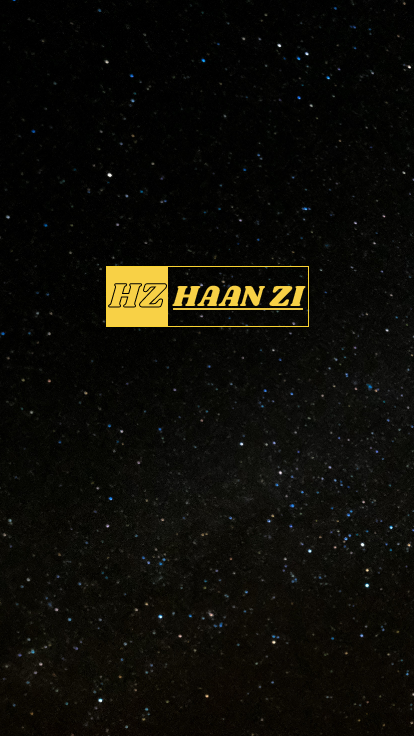
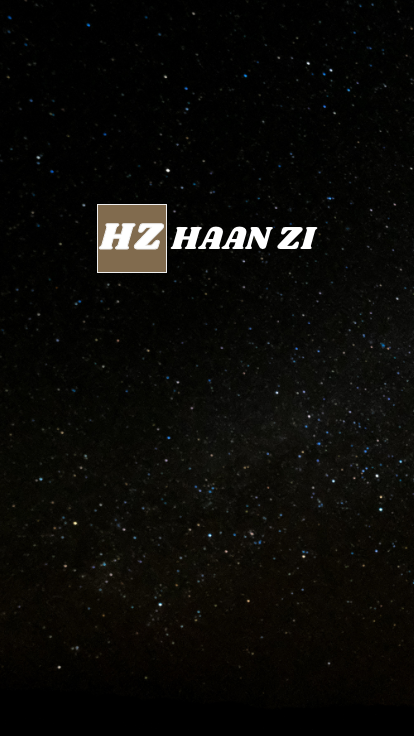
@commit-Dec-24-01

diff --git a/lib/screens/profile.dart b/lib/screens/profile.dart
@@ -1,6 +1,7 @@
 import 'package:haanzi_main/models/user.dart';
 import 'package:haanzi_main/services/auth.dart';
 import 'package:flutter/material.dart';
+import 'package:haanzi_main/services/database.dart';
 import 'package:image_picker/image_picker.dart';
 import 'package:firebase_storage/firebase_storage.dart';
 import 'dart:io';
@@ -52,6 +53,7 @@ class _ProfileScreenState extends State<Profile>
     return Scaffold(
       appBar: AppBar(
         title: Text('Set Profile'),
+        centerTitle: true,
       ),
 
       // resizeToAvoidBottomInset: false,
@@ -185,7 +187,16 @@ class _ProfileCardState extends State<ProfileCard> {
 
     _uploadTask = _storage.ref().child(filepath).putFile(_image);
 
-    print(_storage.ref().child(filepath).getDownloadURL());
+    var _imageURL = await _storage.ref().child(filepath).getDownloadURL();
+    _authData['pic'] = _imageURL;
+
+    await DatabaseService(uid: uid).updateUserProfile(
+        uid,
+        _authData['pic'],
+        _authData['name'],
+        _authData['mobile'],
+        _authData['address'],
+        _authData['pin']);
   }
 
   Future<void> getImage() async {
@@ -243,8 +254,8 @@ class _ProfileCardState extends State<ProfileCard> {
     return Card(
       child: Container(
         color: Colors.white,
-        margin: EdgeInsets.all(12.0),
-        padding: EdgeInsets.all(12.0),
+        margin: EdgeInsets.all(18.0),
+        padding: EdgeInsets.all(18.0),
         child: Form(
           key: _formKey,
           child: SingleChildScrollView(
@@ -313,7 +324,7 @@ class _ProfileCardState extends State<ProfileCard> {
                 TextFormField(
                   decoration: InputDecoration(labelText: 'Name'),
                   validator: (value) {
-                    if (value.isEmpty || value.length < 10) {
+                    if (value.isEmpty || value.length < 5) {
                       return 'Invalid Name!';
                     }
                     return null;
@@ -326,7 +337,7 @@ class _ProfileCardState extends State<ProfileCard> {
                   decoration: InputDecoration(labelText: 'Mobile'),
                   //controller: _passwordController,
                   validator: (value) {
-                    if (value.isEmpty || value.length < 10) {
+                    if (value.isEmpty || value.length != 10) {
                       return 'Mobile Number!';
                     }
                     return null;
@@ -343,7 +354,7 @@ class _ProfileCardState extends State<ProfileCard> {
                   //controller: _passwordController,
                   validator: (value) {
                     if (value.isEmpty || value.length < 15) {
-                      return 'Adress is too short Number!';
+                      return 'Adress is too short!';
                     }
                     return null;
                   },
@@ -359,7 +370,7 @@ class _ProfileCardState extends State<ProfileCard> {
                     decoration: InputDecoration(labelText: 'Pin Code'),
                     //controller: _passwordController,
                     validator: (value) {
-                      if (value.isEmpty || value.length < 15) {
+                      if (value.isEmpty || value.length < 7) {
                         return 'Pin is too short Number!';
                       }
                       return null;
@@ -386,15 +397,23 @@ class _ProfileCardState extends State<ProfileCard> {
                             padding: EdgeInsets.only(right: 10.0),
                             child: Container(
                                 child: new RaisedButton(
-                              child: new Text("Save"),
-                              textColor: Colors.white,
-                              color: Colors.green,
+                              child: Text(
+                                'SAVE',
+                                style: TextStyle(
+                                    fontWeight: FontWeight.bold,
+                                    fontFamily: 'Roboto',
+                                    color: Theme.of(context).backgroundColor),
+                              ),
+
+                              //color:  color: Theme.of(context).backgroundColor),
                               onPressed: () {
                                 _submit();
                               },
+
                               shape: new RoundedRectangleBorder(
                                   borderRadius:
                                       new BorderRadius.circular(20.0)),
+                              color: Theme.of(context).buttonColor,
                             )),
                           ),
                           flex: 2,
@@ -404,9 +423,9 @@ class _ProfileCardState extends State<ProfileCard> {
                             padding: EdgeInsets.only(right: 10.0),
                             child: Container(
                                 child: new RaisedButton(
-                              child: new Text("Cancel"),
+                              child: new Text("CANCEL"),
                               textColor: Colors.white,
-                              color: Colors.red,
+                              color: Color(0xff99463c),
                               onPressed: () {
                                 _signout();
                               },

diff --git a/lib/screens/authScreen.dart b/lib/screens/authScreen.dart
@@ -20,7 +20,7 @@ class AuthScreen extends StatelessWidget {
 //            decoration: BoxDecoration(
 //              image: DecorationImage(
 //                image: AssetImage('images/home-auth.png'),
-//                fit: BoxFit.cover,
+//                fit: BoxFit.cover,home-auth.png
 //              ),
 //            ),
 //          ),
@@ -40,7 +40,7 @@ class AuthScreen extends StatelessWidget {
                 crossAxisAlignment: CrossAxisAlignment.center,
                 children: <Widget>[
                   SizedBox(
-                    height: deviceSize.height * 0.20,
+                    height: deviceSize.height * 0.10,
                   ),
                   Flexible(
                     flex: deviceSize.width > 600 ? 2 : 1,
@@ -198,7 +198,8 @@ class _AuthCardState extends State<AuthCard> {
                     mainAxisAlignment: MainAxisAlignment.center,
                     children: <Widget>[
                       Text('Provider'),
-                      Switch(
+                      Switch.adaptive(
+                          activeColor: Theme.of(context).accentColor,
                           value: val,
                           onChanged: (newVal) {
                             onSwitchValueChanged(newVal);
@@ -213,12 +214,13 @@ class _AuthCardState extends State<AuthCard> {
                   CircularProgressIndicator()
                 else
                   RaisedButton(
+                    elevation: 2,
                     child: Text(
                       _authMode == AuthMode.Login ? 'LOGIN' : 'SIGN UP',
                       style: TextStyle(
-                        fontWeight: FontWeight.bold,
-                        fontFamily: 'Roboto',
-                      ),
+                          fontWeight: FontWeight.bold,
+                          fontFamily: 'Roboto',
+                          color: Theme.of(context).backgroundColor),
                     ),
                     onPressed: _submit,
                     shape: RoundedRectangleBorder(
@@ -237,6 +239,7 @@ class _AuthCardState extends State<AuthCard> {
                       fontSize: 15.0,
                       letterSpacing: 1,
                       fontWeight: FontWeight.bold,
+                      color: Theme.of(context).accentColor,
                       fontFamily: 'Roboto',
                     ),
                   ),

diff --git a/lib/theme/haanziTheme.dart b/lib/theme/haanziTheme.dart
@@ -31,9 +31,11 @@ ThemeData basicTheme() {
   return base.copyWith(
       textTheme: _basicTextTheme(base.textTheme),
       //textTheme: Typography().white,
-      primaryColor: Color(0xff005582),
-      accentColor: Color(0xFF00c2c7),
-
+      //primaryColor: Color(0xffCFD0D2),
+      primaryColor: Color(0xff8393AA),
+      //accentColor: Color(0xffCFD0D2),
+      //accentColor: Color(0xff816B4E),
+      accentColor: Color(0xff4f1b05),
       //primaryColor: Color(0xffC1990C),
       //primaryColor: Color(0xff4829b2),
       indicatorColor: Color(0xFFF5F5F5),
@@ -42,7 +44,8 @@ ThemeData basicTheme() {
         color: Colors.white,
         size: 20.0,
       ),
-      buttonColor: Color(0xff0086AD),
+      //buttonColor: Color(0xff816B4E),
+      buttonColor: Color(0xff0ff8393AA),
       backgroundColor: Colors.white,
       tabBarTheme: base.tabBarTheme.copyWith(
         labelColor: Color(0xffF8D774),

diff --git a/lib/services/database.dart b/lib/services/database.dart
@@ -19,6 +19,29 @@ class DatabaseService {
       'mode': mode,
       'date': currDate,
       'pic': '',
+      'name': '',
+      'mobile': '',
+      'address': '',
+      'pin': '',
     });
+  }
+
+  //update user profile
+
+  // register with email and password
+  Future updateUserProfile(String uid, String pic, String name, String mobile,
+      String address, String pin) async {
+    try {
+      return await userCollection.document(uid).updateData({
+        'pic': pic,
+        'name': name,
+        'mobile': mobile,
+        'address': address,
+        'pin': pin,
+      });
+    } catch (error) {
+      print(error.toString());
+      return null;
+    }
   }
 }
